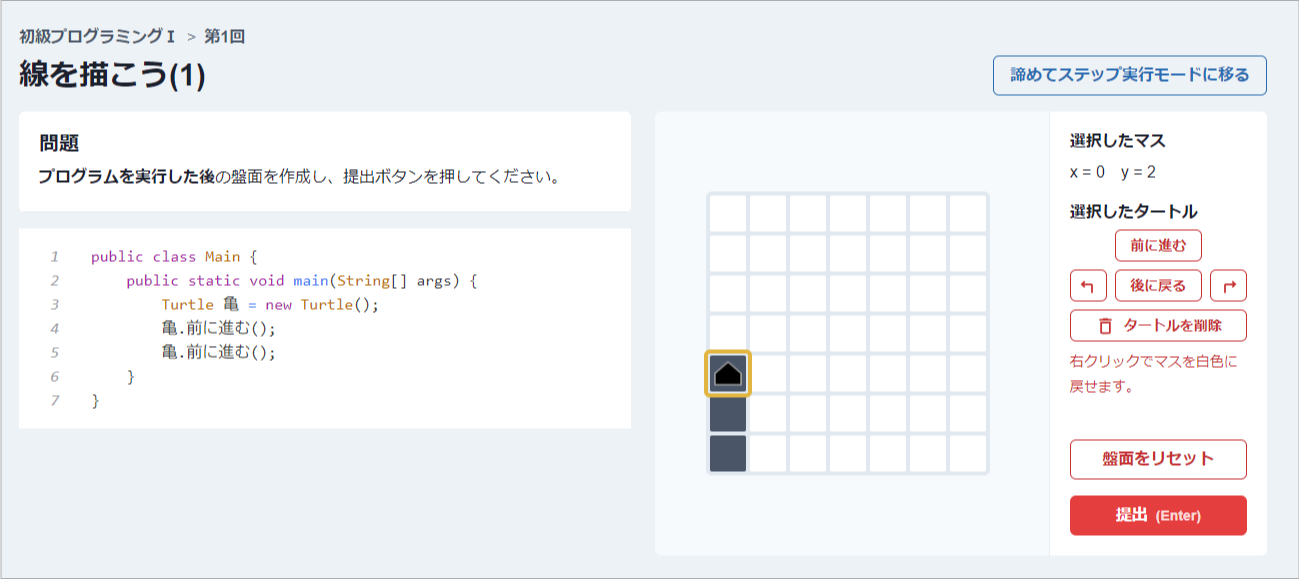
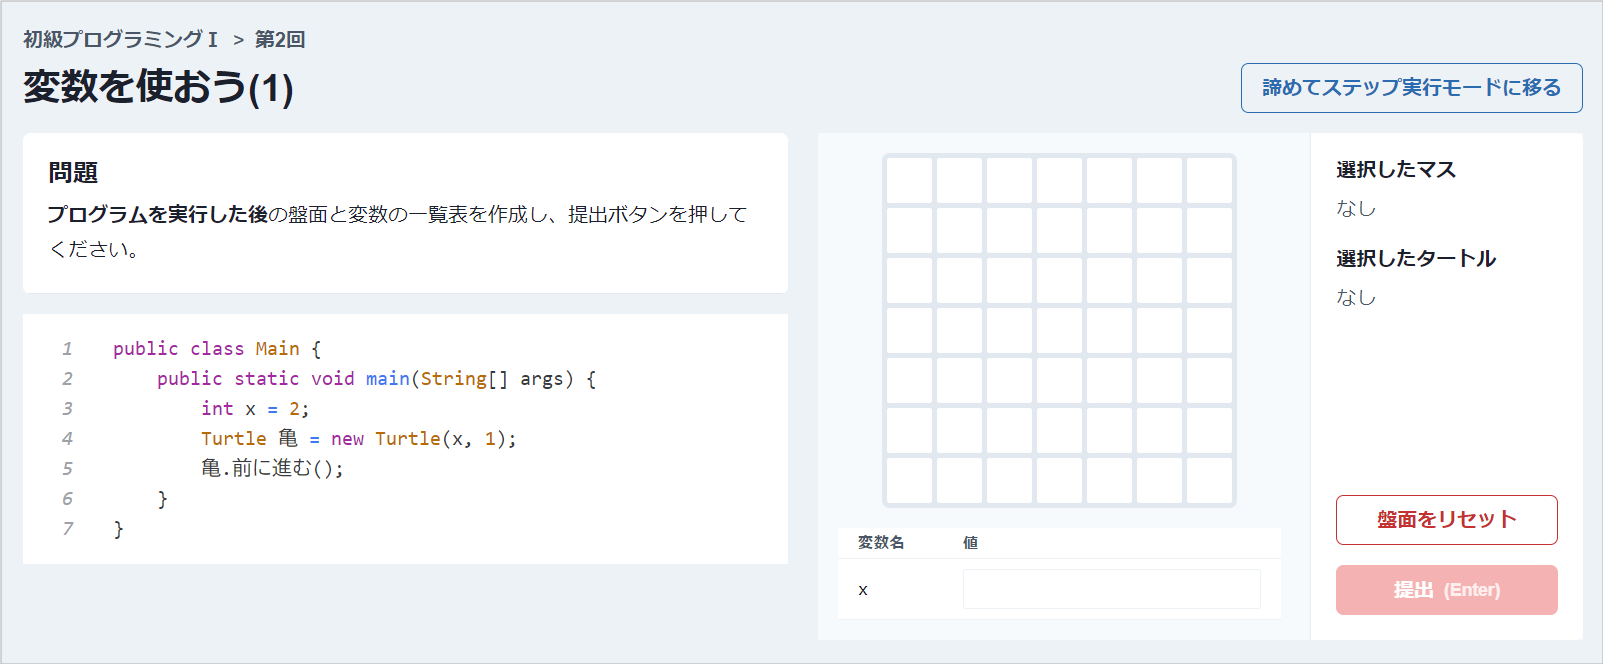
fix: update usage page

diff --git a/src/app/(withAuth)/usage/page.tsx b/src/app/(withAuth)/usage/page.tsx
@@ -18,7 +18,7 @@ const CoursesPage: NextPage = async () => {
             ステップ実行モード
           </Text>
           」の2種類があり、すべての問題は一括実行モードから始まります。
-          どちらのモードでも、解答者はタートル（亀）を操作して、プログラムの実行後の盤面を再現する必要があります。
+          どちらのモードでも、解答者はタートル（亀）を操作して、プログラムの実行後の盤面を再現し、変数の値を入力する必要があります。
         </Text>
         <Image alt="Usage Overview" my={4} src="/images/usage_01.png" />
 
@@ -35,9 +35,14 @@ const CoursesPage: NextPage = async () => {
         <Image alt="Initial Setup" my={4} src="/images/usage_02.png" />
 
         <Text mt={16}>
-          タートルの初期位置が決まったら、プログラムを読み進めながら、「前に進む」「後に戻る」「↰」「↱」などの操作ボタンを使ってタートルを動かし、軌跡を描きます。
+          ③タートルの初期位置が決まったら、プログラムを読み進めながら、「前に進む」「後に戻る」「↰」「↱」などの操作ボタンを使ってタートルを動かし、軌跡を描きます。
         </Text>
         <Image alt="Turtle Movement" my={4} src="/images/usage_03.png" />
+
+        <Text mt={16}>
+          ④盤面の下に「変数名」「値」と書かれたフォームがある場合は、プログラムを実行した時の最終的な変数の値を入力してください。
+        </Text>
+        <Image alt="Variable Input" my={4} src="/images/usage_04.png" />
 
         <Text mt={16}>誤った操作をした場合は、以下の方法で修正できます。</Text>
         <List my={2}>
@@ -49,16 +54,15 @@ const CoursesPage: NextPage = async () => {
         </List>
 
         <Text mt={16}>
-          プログラム終了後の状態まで軌跡を描き終えたら、下図のように「提出」ボタンをクリックして解答を確認しましょう。
+          ⑤プログラム終了後の状態まで軌跡を描き終えたら、下図のように「提出」ボタンをクリックして解答を確認しましょう。
         </Text>
-        <Image alt="How to Submit" my={4} src="/images/usage_04.png" />
+        <Image alt="How to Submit" my={4} src="/images/usage_05.png" />
 
         <Text mt={16}>
           正解の場合は、指示に従って問題一覧ページに戻り、次の問題に進みます。
-          <br />
           不正解の場合は、やり直します。3回間違えるか、「諦めてステップ実行モードに移行する」ボタンをクリックすると、下図のように「ステップ実行モード」に移行します。
         </Text>
-        <Image alt="Step Execution Mode" my={4} src="/images/usage_05.png" />
+        <Image alt="Step Execution Mode" my={4} src="/images/usage_06.png" />
 
         <Text fontWeight="bold" mt={16}>
           ■ステップ実行モードの解き方
@@ -66,25 +70,28 @@ const CoursesPage: NextPage = async () => {
         <Text>
           ステップ実行モードでは、一括実行モードとは異なり、プログラムをステップごとに（概ね1行ごとに）変数の値の変化とタートルの軌跡を確認します。
           以下および下図の手順で、問題を解きます。
-          <List my={2}>
-            <ListItem>① 出題されたプログラム上の、赤い枠で囲まれた行を確認します。</ListItem>
-            <ListItem>② 赤い枠で囲まれた行のプログラムを実行した後のタートルの位置や軌跡を盤面に描きます。</ListItem>
-            <ListItem>
-              ③
-              1ステップ分のタートルの位置や軌跡を描くごとに「提出」ボタンを押してください。正解するまで次のステップに進めないので、修正と提出を繰り返します。
-            </ListItem>
-          </List>
         </Text>
+        <List my={2}>
+          <ListItem>① 出題されたプログラム上の、赤い枠で囲まれた行を確認します。</ListItem>
+          <ListItem>
+            ②
+            赤い枠で囲まれた行のプログラムを実行した後のタートルの位置や軌跡を盤面に描き、同じ行の変数の値をフォームに入力します。
+          </ListItem>
+          <ListItem>
+            ③
+            1ステップ分の変数の値を入力したり、タートルの位置や軌跡を描いたりするごとに「提出」ボタンを押してください。正解するまで次のステップに進めないので、修正と提出を繰り返します。
+          </ListItem>
+        </List>
         <Text fontWeight="bold">
-          なお、タートルの動きがない行が選ばれることもあります。その場合は、盤面を変更せずに「提出」ボタンを押してください。
+          なお、タートルや変数の動きがない行が選ばれることもあります。その場合は、盤面や値を変更せずに「提出」ボタンを押してください。
         </Text>
-        <Image alt="How to Submit" my={4} src="/images/usage_06.png" />
+        <Image alt="How to Submit" my={4} src="/images/usage_07.png" />
 
         <Text mt={16}>
           ステップ実行モードでは、ステップごとに変数の値とタートルの動きを遡って確認できます。
           画面下部に直前の盤面と変数の一覧が表示されます。「1ステップ前を表示」や「1ステップ後を表示」ボタンを押すと、さらに前の盤面と変数の一覧を表示できます。
         </Text>
-        <Image alt="How to See Trace" my={4} src="/images/usage_07.png" />
+        <Image alt="How to See Trace" my={4} src="/images/usage_08.png" />
 
         <Text>
           プログラムが終了するまで、ステップ実行モードの問題は続きます。最後まで解き終えたら問題一覧ページに戻り、次の問題に進みましょう。
